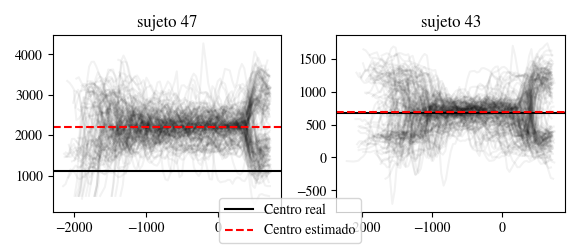
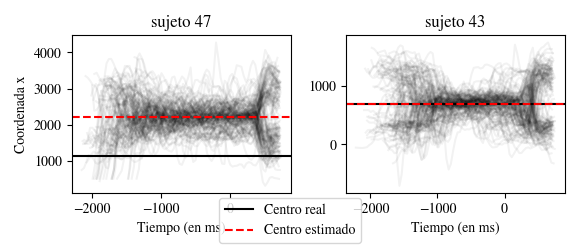
normalization example

diff --git a/data-analysis/defensa/main.tex b/data-analysis/defensa/main.tex
@@ -50,7 +50,31 @@
   \begin{figure}
     \centering
     \includegraphics[width=\linewidth]{plots/skewed-estimations-examples.png}
+    \caption{Las estimaciones de algunos sujetos están desviadas de los valores reales}
   \end{figure}
+\end{frame}
+
+\begin{frame}{Limpieza y normalización}
+  \begin{columns}
+    \begin{column}{0.4\textwidth}
+      \begin{itemize}
+        \item Ensayos descartados: \begin{itemize}
+          \item frecuencia menor a 15 Hz
+          \item a mano
+          \item si el sujeto se distrajo de la tarea
+        \end{itemize}
+        \item Frecuencia de muestreo: \textit{Upsampling} a 30 Hz usando
+          interpolación lineal
+      \end{itemize}
+    \end{column}
+    \begin{column}{0.6\textwidth}
+      \begin{figure}
+        \centering
+        \includegraphics[width=\linewidth]{plots/normalization-example.png}
+        \caption{Normalizado y espejado}
+      \end{figure}
+    \end{column}
+  \end{columns}
 \end{frame}
 
 \begin{frame}{Detección de sacadas}
@@ -59,11 +83,16 @@
       \begin{figure}
         \centering
         \includegraphics[width=\linewidth]{img/saccades-example.jpg}
+        \caption{Los movimientos oculares muestran qué elementos de una imagen
+        capturan la atención}
       \end{figure}
     \end{column}
     \begin{column}{0.5\textwidth}
+      \begin{figure}
         \centering
         \includegraphics[width=\linewidth]{plots/detected-saccades-example.png}
+        \caption{Sacadas detectadas sobre las estimaciones de un ensayo}
+      \end{figure}
     \end{column}
   \end{columns}
 \end{frame}
@@ -525,25 +554,6 @@
 \end{frame}
 
 \subsection{Limpieza y normalización}
-
-% No hacer mucho hincapié acá y comentar que en cualquier caso está disponible
-% la implementación
-\begin{frame}{~}
-
-  \begin{columns}
-    \begin{column}{0.5\textwidth}
-      TODO: Ejemplo de la interpolación de estimaciones \par
-      TODO: Ejemplo de datos descartados
-    \end{column}
-    \begin{column}{0.5\textwidth}
-      \begin{figure}
-        \centering
-        \includegraphics[width=\linewidth]{img/normalization-looks-example.png}
-      \end{figure}
-    \end{column}
-  \end{columns}
-
-\end{frame}
 
 \subsection{Detección de sacadas}
 

diff --git a/data-analysis/plotting.py b/data-analysis/plotting.py
@@ -150,6 +150,35 @@ class plot:
             plt.legend()
             self.fig = fig
 
+    class sample:
+        class normalization_result:
+            def __init__(self, s):
+                fig, axes = plt.subplots(ncols=2)
+
+                ts = [t for t in s.ts.all() if t.saccade_type == 'anti']
+
+                draw.pre_normalization_trials(axes[0], ts)
+                axes[0].set_title('a) aspecto inicial')
+
+                for t in ts:
+                    axes[1].plot(
+                        [e['t'] for e in t.estimations],
+                        [e['x'] for e in t.estimations],
+                        color="black",
+                        alpha=0.1
+                    )
+                axes[1].set_title('b) aspecto final')
+
+                axes[1].set_ylim(-1.5, 1.5)
+
+                axes[0].set_ylabel('Coordenada x (en píxeles)')
+                axes[0].set_xlabel('Tiempo (en ms)')
+
+                axes[1].set_ylabel('Coordenada x (normalizada)')
+                axes[1].set_xlabel('Tiempo (en ms)')
+
+                self.fig = fig
+
     class single_trial:
         class saccades:
             def __init__(self, t):
@@ -496,6 +525,11 @@ class plot:
                     ax,
                     first_starting_sample.subsample_by_run_id(run_id).ts.all())
                 ax.title.set_text('sujeto {}'.format(run_id))
+
+            if compact:
+                axes[0].set_ylabel('Coordenada x')
+                axes[0].set_xlabel('Tiempo (en ms)')
+                axes[1].set_xlabel('Tiempo (en ms)')
 
             handles, labels = (axes[-1]).get_legend_handles_labels()
             fig.legend(handles, labels, loc='lower center')

diff --git a/data-analysis/defensa/main.py b/data-analysis/defensa/main.py
@@ -23,6 +23,18 @@ def _save_fig(figure_name, build_path, renderer):
     return output_file_logical_path
 
 class save_figure:
+    class normalization_example:
+        def __init__(_, s):
+            def renderer():
+                fig = plot.sample.normalization_result(s).fig
+                fig.set_size_inches(4.1, 2.2)
+                return fig
+
+            _save_fig(
+                'normalization-example',
+                'data-analysis/defensa/plots',
+                renderer
+            )
     class detected_saccades_example:
         def __init__(_, t):
             def renderer():
@@ -114,3 +126,5 @@ def build_defensa():
     )
     save_figure.skewed_estimations_examples(r.first_instance.starting_sample)
     save_figure.detected_saccades_example(good_looking_trial)
+    save_figure.normalization_example(
+        r.second_instance.starting_sample.subsample_by_run_id(104))
